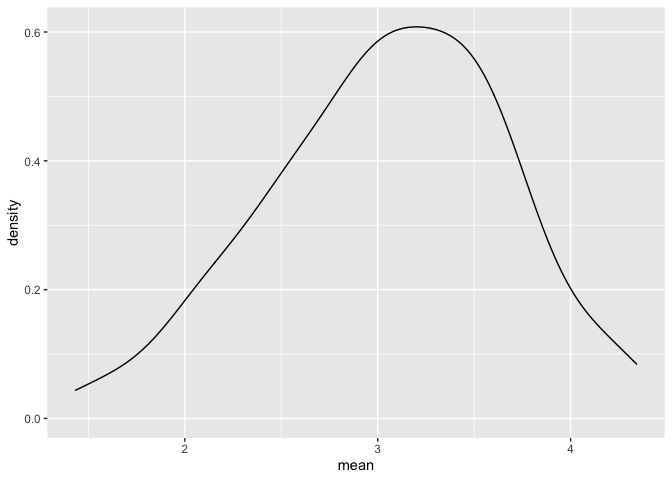
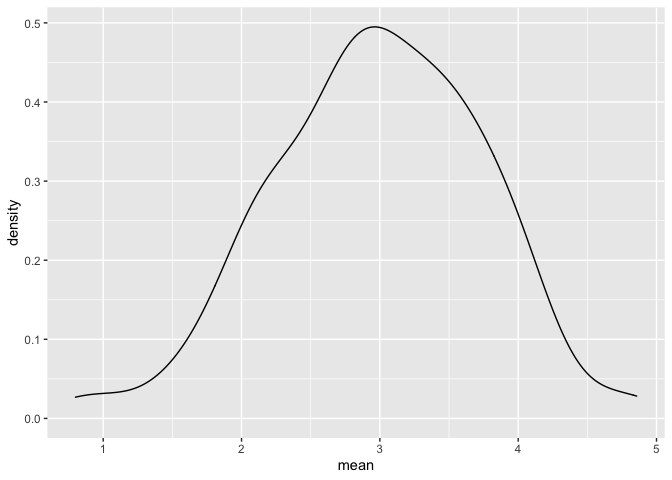
we did simulations

diff --git a/simulation.md b/simulation.md
@@ -31,7 +31,7 @@ sim_mean_sd(30)
     ## # A tibble: 1 × 2
     ##    mean    sd
     ##   <dbl> <dbl>
-    ## 1  1.80  4.36
+    ## 1  3.33  3.70
 
 ## Let’s simulate a lot
 
@@ -52,16 +52,16 @@ bind_rows(output)
     ## # A tibble: 100 × 2
     ##     mean    sd
     ##    <dbl> <dbl>
-    ##  1  3.37  4.93
-    ##  2  2.53  3.52
-    ##  3  2.88  4.26
-    ##  4  3.05  3.95
-    ##  5  3.77  3.81
-    ##  6  1.35  4.29
-    ##  7  3.10  3.59
-    ##  8  2.83  3.84
-    ##  9  3.00  4.22
-    ## 10  3.31  3.73
+    ##  1  3.53  3.18
+    ##  2  3.44  3.84
+    ##  3  3.45  3.53
+    ##  4  1.68  3.69
+    ##  5  3.95  4.22
+    ##  6  3.27  4.34
+    ##  7  2.05  4.05
+    ##  8  3.10  3.72
+    ##  9  3.55  4.11
+    ## 10  3.87  3.79
     ## # … with 90 more rows
 
 Let’s use a loop function.
@@ -92,7 +92,7 @@ sim_results %>%
     ## # A tibble: 1 × 2
     ##   avg_samp_mean sd_samp_mean
     ##           <dbl>        <dbl>
-    ## 1          3.05        0.614
+    ## 1          2.98        0.756
 
 ``` r
 sim_results %>%
@@ -100,3 +100,74 @@ sim_results %>%
 ```
 
 ![](simulation_files/figure-gfm/unnamed-chunk-5-2.png)<!-- -->
+
+## Let’s try other sample sizes.
+
+``` r
+n_list = 
+  list(
+    "n = 30" = 30,
+    "n = 60" = 60,
+    "n = 120" = 120,
+    "n = 240" = 240
+  )
+
+output = vector("list", length = 4)
+
+output[[1]] = rerun(100, sim_mean_sd(samp_size = n_list[[1]])) %>%
+  bind_rows()
+output[[2]] = rerun(100, sim_mean_sd(samp_size = n_list[[2]])) %>%
+  bind_rows()
+
+for (i in 1:4) {
+  
+  output[[i]] = 
+    rerun(100, sim_mean_sd(samp_size = n_list[[i]])) %>%
+    bind_rows()
+  
+}
+```
+
+``` r
+sim_results = 
+  tibble(
+    sample_size = c(30, 60, 120, 240)
+  ) %>%
+  mutate(
+    output_lists = map(.x = sample_size, ~ rerun(1000,sim_mean_sd(.x))),
+    estimate_df = map(output_lists, bind_rows)
+  ) %>%
+  select(-output_lists) %>%
+  unnest(estimate_df)
+```
+
+Do some data frame things.
+
+``` r
+sim_results %>%
+  mutate(
+    sample_size = str_c("n = ", sample_size),
+    sample_size = fct_inorder(sample_size)
+  ) %>%
+  ggplot(aes(x = sample_size, y = mean)) + 
+  geom_violin()
+```
+
+![](simulation_files/figure-gfm/unnamed-chunk-8-1.png)<!-- -->
+
+``` r
+sim_results %>%
+  group_by(sample_size) %>%
+  summarise(
+    avg_samp_mean = mean(mean), 
+    sd_samp_mean = sd(mean)
+  )
+```
+
+    ## # A tibble: 4 × 3
+    ##   sample_size avg_samp_mean sd_samp_mean
+    ##         <dbl>         <dbl>        <dbl>
+    ## 1          30          3.00        0.703
+    ## 2          60          3.02        0.523
+    ## 3         120          3.00        0.377
+    ## 4         240          3.00        0.261
